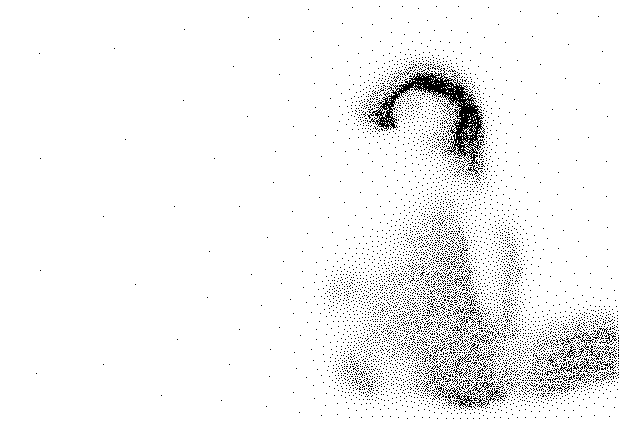
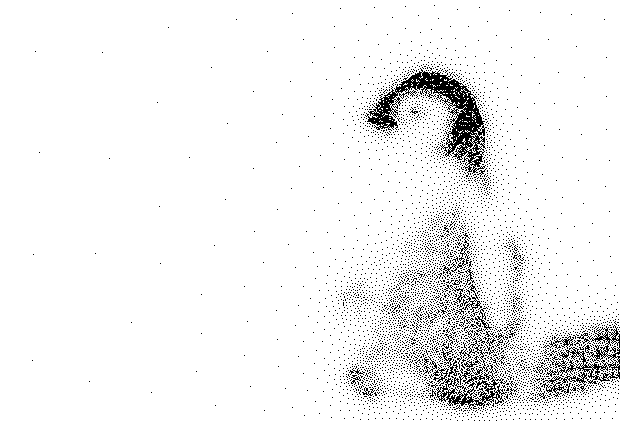
Push before leaving the computer

Changed region(s): [[0.521, 0.1232, 1.0, 0.9858]]

diff --git a/gray.go b/gray.go
@@ -11,8 +11,8 @@ func RgbaToGray(img image.Image) *image.Gray {
 		bounds = img.Bounds()
 		gray   = image.NewGray(bounds)
 	)
-	for x := 0; x < bounds.Max.X; x++ {
-		for y := 0; y < bounds.Max.Y; y++ {
+	for x := bounds.Min.X; x < bounds.Max.X; x++ {
+		for y := bounds.Min.Y; y < bounds.Max.Y; y++ {
 			var rgba = img.At(x, y)
 			gray.Set(x, y, rgba)
 		}
@@ -52,8 +52,8 @@ func InvertGray(gray *image.Gray) *image.Gray {
 		reverse = copyGray(gray)
 		bounds  = reverse.Bounds()
 	)
-	for x := 0; x < bounds.Max.X; x++ {
-		for y := 0; y < bounds.Max.Y; y++ {
+	for x := bounds.Min.X; x < bounds.Max.X; x++ {
+		for y := bounds.Min.Y; y < bounds.Max.Y; y++ {
 			reverse.SetGray(x, y, color.Gray{255 - reverse.GrayAt(x, y).Y})
 		}
 	}
@@ -64,8 +64,8 @@ func InvertGray(gray *image.Gray) *image.Gray {
 // given intensity range.
 func ExtractPoints(gray *image.Gray, min, max uint8) (points []image.Point) {
 	var bounds = gray.Bounds()
-	for x := 0; x < bounds.Max.X; x++ {
-		for y := 0; y < bounds.Max.Y; y++ {
+	for x := bounds.Min.X; x < bounds.Max.X; x++ {
+		for y := bounds.Min.Y; y < bounds.Max.Y; y++ {
 			var intensity = gray.GrayAt(x, y).Y
 			if intensity >= min && intensity <= max {
 				points = append(points, image.Point{x, y})
@@ -73,4 +73,26 @@ func ExtractPoints(gray *image.Gray, min, max uint8) (points []image.Point) {
 		}
 	}
 	return
+}
+
+// A GrayHistogram is a map which maps uint8s to image.Points.
+type GrayHistogram map[uint8][]image.Point
+
+// Create a GrayHistogram from a grayscale image.
+func makeGrayHistogram(gray *image.Gray) GrayHistogram {
+	var (
+		bounds = gray.Bounds()
+		hist   = make(GrayHistogram)
+	)
+	// Fill the histogram with empty slices
+	for i := 0; i <= 255; i++ {
+		hist[uint8(i)] = []image.Point{}
+	}
+	for i := bounds.Min.X; i < bounds.Max.X; i++ {
+		for j := bounds.Min.Y; j < bounds.Max.Y; j++ {
+			var intensity = gray.GrayAt(i, j).Y
+			hist[intensity] = append(hist[intensity], image.Point{i, j})
+		}
+	}
+	return hist
 }

diff --git a/main.go b/main.go
@@ -32,27 +32,27 @@ func main() {
 	//SaveImagePNG(gd, "screenshots/grid_dithering.png")
 
 	// Floyd-Steinberg dithering
-	var fsd = FloydSteinbergDitherer{}.apply(gray)
-	SaveImagePNG(fsd, "screenshots/floyd_steinberg_dithering.png")
+	//var fsd = FloydSteinbergDitherer{}.apply(gray)
+	//SaveImagePNG(fsd, "screenshots/floyd_steinberg_dithering.png")
 
-	// var sites = ExtractPoints(rtd, 0, 0)
-	// var voronoi = BuildVoronoi(sites, gray.Bounds())
+	var sites = ExtractPoints(rtd, 0, 0)
+	var voronoi = BuildVoronoi(sites, gray.Bounds())
 
-	// var vr = DrawTessallationRegions(voronoi, gray.Bounds())
-	// SaveImagePNG(vr, "screenshots/voronoi_regions.png")
+	var vr = DrawTessallationRegions(voronoi, gray.Bounds())
+	SaveImagePNG(vr, "screenshots/voronoi_regions.png")
 
-	// var vs = DrawTessallationSites(voronoi, gray.Bounds())
-	// SaveImagePNG(vs, "screenshots/voronoi_sites.png")
+	var vs = DrawTessallationSites(voronoi, gray.Bounds())
+	SaveImagePNG(vs, "screenshots/voronoi_sites.png")
 
-	// var weights = gray
-	// for i := 0; i < 15; i++ {
-	// 	var centroids = CalculateCentroids(voronoi, weights)
-	// 	voronoi = BuildVoronoi(centroids, gray.Bounds())
-	// }
+	var weights = gray
+	for i := 0; i < 20; i++ {
+		var centroids = CalculateCentroids(voronoi, weights)
+		voronoi = BuildVoronoi(centroids, gray.Bounds())
+	}
 
-	// var cvr = DrawTessallationRegions(voronoi, gray.Bounds())
-	// SaveImagePNG(cvr, "screenshots/centroidal_voronoi_regions.png")
+	var cvr = DrawTessallationRegions(voronoi, gray.Bounds())
+	SaveImagePNG(cvr, "screenshots/centroidal_voronoi_regions.png")
 
-	// var cvs = DrawTessallationSites(voronoi, gray.Bounds())
-	// SaveImagePNG(cvs, "screenshots/centroidal_voronoi_sites.png")
+	var cvs = DrawTessallationSites(voronoi, gray.Bounds())
+	SaveImagePNG(cvs, "screenshots/centroidal_voronoi_sites.png")
 }

diff --git a/voronoi.go b/voronoi.go
@@ -54,15 +54,27 @@ func CalculateCentroids(tess Tessellation, weights *image.Gray) []image.Point {
 }
 
 func calculateCentroid(points []image.Point, weights *image.Gray) (centroid image.Point) {
-	var totalWeight int
+	var totalWeight float64
+	var cx float64
+	var cy float64
 	for _, point := range points {
-		var weight = int(weights.GrayAt(point.X, point.Y).Y) + 1
-		centroid.X += point.X * weight
-		centroid.Y += point.Y * weight
+		var weight = float64(weights.GrayAt(point.X, point.Y).Y) + 1
+		cx += float64(point.X) * weight
+		cy += float64(point.Y) * weight
 		totalWeight += weight
 	}
-	centroid.X /= totalWeight
-	centroid.Y /= totalWeight
+	cx /= totalWeight
+	cy /= totalWeight
+	if cx-math.Floor(cx) < 0.5 {
+		centroid.X = int(cx)
+	} else {
+		centroid.X = int(cx) + 1
+	}
+	if cy-math.Floor(cy) < 0.5 {
+		centroid.Y = int(cy)
+	} else {
+		centroid.Y = int(cy) + 1
+	}
 	return
 }
 
